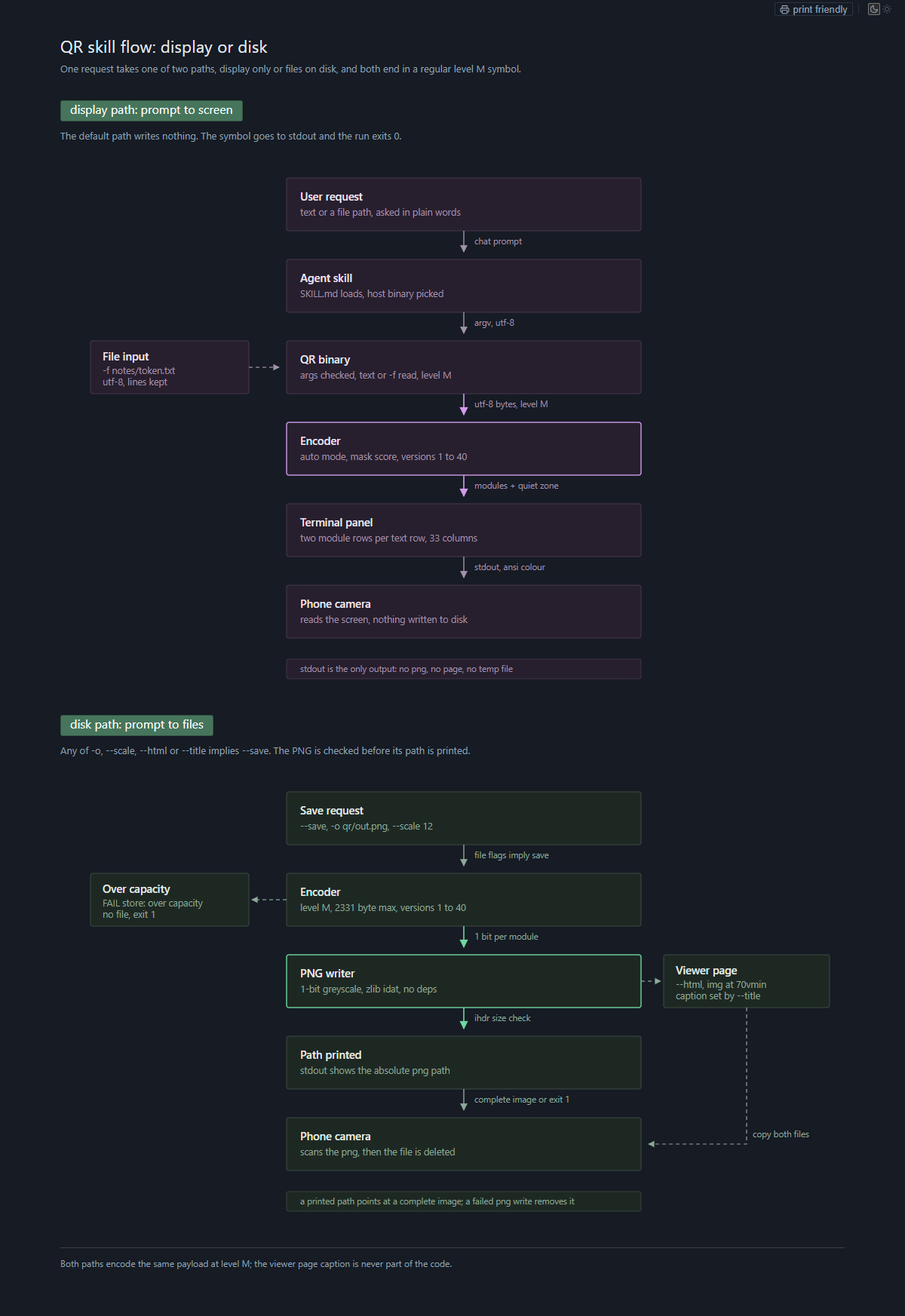
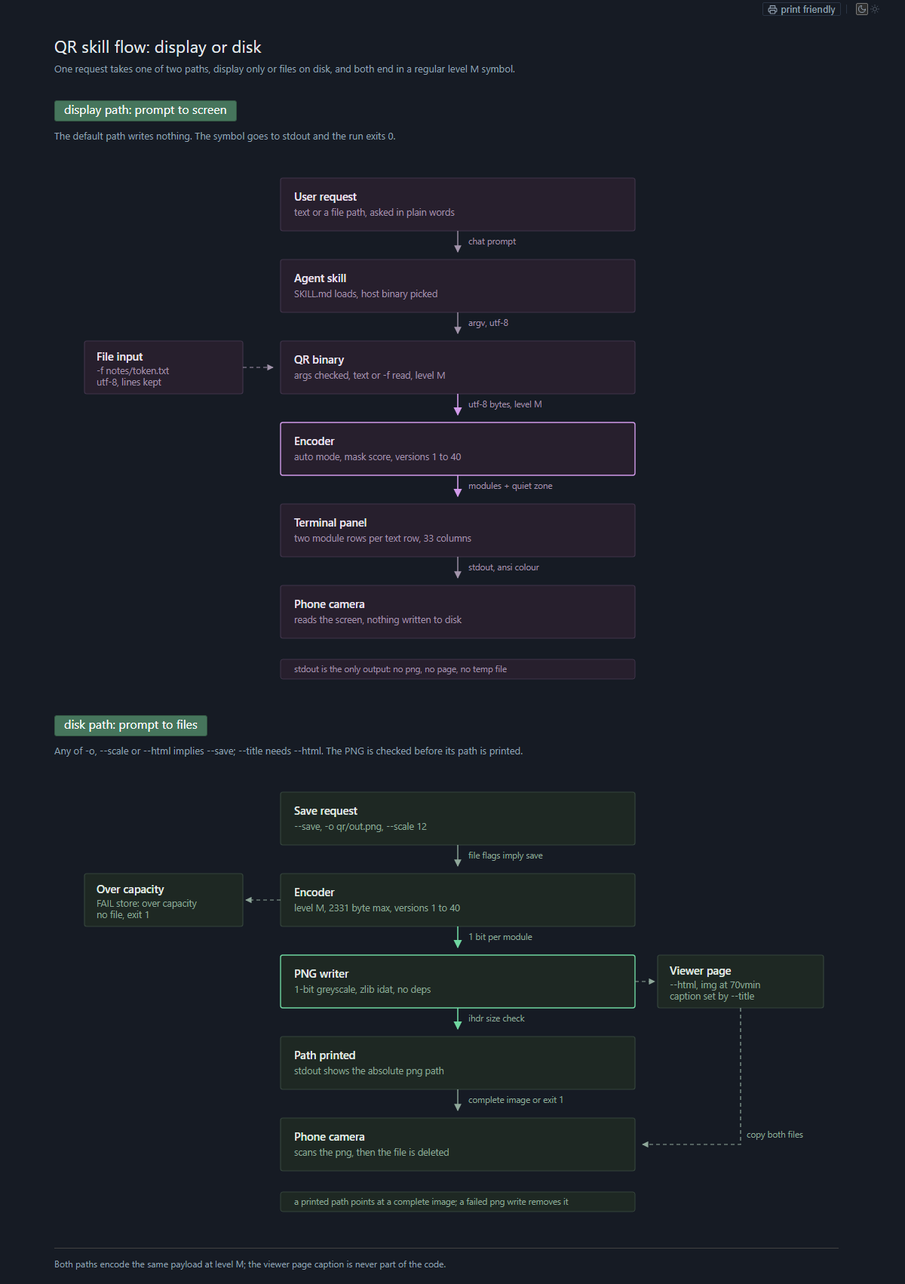
1.2.0 docs: record the audit closure

diff --git a/docs/app-flow.html b/docs/app-flow.html
@@ -246,7 +246,7 @@
     <div class="head">
       <h2>disk path: prompt to files</h2>
     </div>
-    <p class="note">Any of -o, --scale, --html or --title implies --save. The PNG is checked before its path is printed.</p>
+    <p class="note">Any of -o, --scale or --html implies --save; --title needs --html. The PNG is checked before its path is printed.</p>
     <svg viewBox="0 0 1040 592" role="img" aria-label="Disk path: save request, encoder, png writer focus, path printed and phone camera, with an over-capacity exit and a viewer page side channel">
       <defs>
         <marker id="dskHead" viewBox="0 0 10 10" refX="9" refY="5" markerWidth="7" markerHeight="7" orient="auto">

diff --git a/spec/qr-spec.md b/spec/qr-spec.md
@@ -4,8 +4,8 @@
 |---|---|
 | Title | qr: offline QR code generator skill |
 | Purpose | Pin observable behaviour of the skill, first for the Python line, then as the acceptance target for the Rust line that replaces it |
-| Status | approved |
-| Version | 1.1.1 |
+| Status | implemented |
+| Version | 1.2.0 |
 | Owner | skill maintainer |
 | Stakeholders | agent operators who load the skill, reviewers of the port |
 | Approvers | owner, reviewer |
@@ -33,7 +33,7 @@ QR-22 applies to the 0.8.0 binary; the 0.7.1 Python line had no `--version` flag
 | Id | Required behaviour | Failure behaviour |
 |---|---|---|
 | QR-01 | A single positional argument is encoded unchanged: no strip, no case change, no re-encoding. | none |
-| QR-02 | `-f PATH` reads the file as UTF-8, without line-ending translation, and strips leading and trailing whitespace before encoding. The whitespace set is CPython's, measured on 3.14.6: U+0009 to U+000D, U+001C to U+0020, U+0085, U+00A0, U+1680, U+2000 to U+200A, U+2028, U+2029, U+202F, U+205F, U+3000, 29 code points in 10 ranges. Rust `str::trim` follows Unicode White_Space and keeps U+001C to U+001F, so the port carries this table. | QR-19 |
+| QR-02 | `-f PATH` reads the file as UTF-8, without line-ending translation, and strips leading and trailing whitespace before encoding. The whitespace set is CPython's, measured on 3.14.6: U+0009 to U+000D, U+001C to U+0020, U+0085, U+00A0, U+1680, U+2000 to U+200A, U+2028, U+2029, U+202F, U+205F, U+3000, 29 code points in 10 ranges. Rust `str::trim` follows Unicode White_Space and keeps U+001C to U+001F, so the port carries this table. A file above 1 MiB is refused before it is read whole. | QR-19 |
 | QR-03 | Text and `-f` are mutually exclusive. | exit 2, stderr `give text or --file, not both`, nothing written |
 | QR-04 | Neither text nor `-f` is given. | exit 2, stderr `provide text or --file`, nothing written |
 | QR-05 | The payload is empty, either as an empty argument or a file that strips to nothing. | exit 2, stderr `empty input`, nothing written |
@@ -46,16 +46,16 @@ QR-22 applies to the 0.8.0 binary; the 0.7.1 Python line had no `--version` flag
 | QR-12 | The PNG is square, side `(modules + 2 * border) * scale` pixels, and decodes back to the payload. | QR-11, QR-13 |
 | QR-13 | After writing, the PNG header dimensions are compared with the expected symbol size, and the file must end with an IEND chunk. | on a size mismatch the file is removed, exit 1, stderr `FAIL png size <got> expected <want>`; without IEND the file is removed, exit 1, stderr `FAIL png tail: missing IEND` |
 | QR-14 | In save mode, stdout carries only the absolute PNG path, then, with `--html`, the absolute page path on a second line. | no other stdout output in save mode |
-| QR-15 | `--html` writes a page named after the PNG stem, next to the PNG, referencing the image by file name; it contains no payload text, no script and no external asset; the image is scaled to 70vmin, the shorter side of the viewport. It selects save mode, per QR-24. | QR-19 |
-| QR-16 | `--title` sets the page title and caption only, HTML-escaped, and is never encoded. It selects save mode, per QR-24. | none; any string is accepted |
+| QR-15 | `--html` writes a page named after the PNG stem, next to the PNG, referencing the image by its percent-encoded file name; it contains no payload text, no script and no external asset; the image is scaled to 70vmin, the shorter side of the viewport. A page path equal to the PNG path is a usage error. It selects save mode, per QR-24. | exit 2, stderr `page path equals the PNG path`, nothing written |
+| QR-16 | `--title` sets the page title and caption only, HTML-escaped, and is never encoded. It requires `--html`. | exit 2, stderr `--title requires --html` |
 | QR-17 | Exit 0 on success, 1 on a runtime failure, 2 on a usage error. | n/a |
 | QR-18 | An existing output file is replaced. | QR-19 |
-| QR-19 | Any filesystem failure, including an unreadable, missing or non-UTF-8 `-f` file, ends with a one-line error on stderr and exit 1, with no traceback and no partial file left behind. | n/a |
+| QR-19 | Any filesystem failure, including an unreadable, missing or non-UTF-8 `-f` file, and an input file above 1 MiB, ends with a one-line error on stderr and exit 1, with no traceback and no partial file left behind. | n/a |
 | QR-20 | `-h` and `--help` print usage on stdout and exit 0; the text lists every option, `--version` included, in the option list and the usage line. An unknown option is a usage error. | exit 2 for unknown options |
 | QR-21 | Standard input is never read. | n/a |
 | QR-22 | `--version` prints the single version string and exits 0, on every build. | exit 0 always |
 | QR-23 | With no output option the symbol is printed to stdout as UTF-8 text, quiet zone included, black modules on a painted light background, two module rows per text row. It writes no file, creates no directory and prints no path. | a failed stdout write is one `FAIL write: stdout` line and exit 1 |
-| QR-24 | `--save` selects save mode and writes the PNG at `-o`, default `qr.png`. `-o`, `--scale`, `--html` and `--title` also select save mode; `-f` and `--border` do not. | QR-19 |
+| QR-24 | `--save` selects save mode and writes the PNG at `-o`, default `qr.png`. `-o`, `--scale` and `--html` also select save mode; `-f` and `--border` do not. | QR-19 |
 
 ## 3. Non-functional requirements
 
@@ -70,7 +70,7 @@ QR-22 applies to the 0.8.0 binary; the 0.7.1 Python line had no `--version` flag
 | NFR-07 | The same payload and options produce byte-identical PNG output on the same platform. |
 | NFR-08 | The payload never reaches stdout, stderr, a log or a file name, and no telemetry is collected. |
 | NFR-09 | Both Linux binaries are statically linked and carry no dynamic loader dependency; they start on Alpine x86_64 and arm64 with no package installed. |
-| NFR-10 | The Windows and macOS binaries start with no runtime redistributable. Size under 4 MB per binary. Measured on the 1.1.1 artifacts: 250368 bytes for `qr.exe`, 235008 for `qr-arm64.exe`, 657120 for `qr`, 716056 for `qr-arm64`, 536000 for `qr-macos-arm64`. |
+| NFR-10 | The Windows binaries link the C runtime statically, and the import table names no VCRUNTIME140, MSVCP140 or api-ms-win-crt-* entry, so neither Windows nor macOS needs a runtime redistributable. Size under 4 MB per binary. Measured on the 1.2.0 artifacts: 361472 bytes for `qr.exe`, 346112 for `qr-arm64.exe`, 665352 for `qr`, 716608 for `qr-arm64`, 555008 for `qr-macos-arm64`. |
 | NFR-11 | The build uses one source tree and one version for all five binaries, with no per-platform source differences. |
 | NFR-12 | A run with no output option performs no filesystem write. After a terminal run the working directory is unchanged, with no PNG, page, temp file, cache or log. |
 
@@ -81,7 +81,8 @@ Components and responsibilities:
 - Generator: argument parsing, validation, symbol encoding, the post-write header check and the viewer page. Owns argument semantics, output naming, stdout and stderr text, exit codes.
 - Symbol encoder: module layout, mask selection, PNG raster. Owns module content and pixel output.
 - `tools/gate.py`: black-box harness that runs the shipped artefact, decodes its output and asserts the contract. Stays in Python, is not shipped.
-- `tools/argv_matrix.py`: runs the command-line cases in `spec/argv-matrix.json` against the shipped artefact or a target binary. The fixture is frozen from the binary; the harness normalises the program name and scratch paths, collapses whitespace in stderr, and compares help stdout with whitespace collapsed because the usage line wraps on the program name.
+- `tools/argv_matrix.py`: runs the command-line cases in `spec/argv-matrix.json` against the shipped artefact or a target binary. The fixture is frozen from the binary; the harness normalises the program name and scratch paths, collapses whitespace in stderr, and compares help stdout with whitespace collapsed because the usage line wraps on the program name. `--check-manifest` ties the fixture stamp to `rust-src/Cargo.toml`.
+- `.github/pe_subsystem.py`: reads the PE header of a Windows binary and fails unless the subsystem is 3 and the import table names no redistributable runtime.
 - `tools/diff_python.py`: differential sweep over the corpus and a page set, comparing a binary with the Python line. Run on Windows and Linux before deletion, kept for a re-run against a script taken from git history.
 - `SKILL.md`: the text an agent reads; owns discovery, usage guidance, the platform-to-binary rule and the secrets rule.
 - Viewer page: static HTML next to the PNG, no script, one image reference.
@@ -102,19 +103,19 @@ Command line:
 | Flag | Type | Range or default | Notes |
 |---|---|---|---|
 | text | string | one argument | positional, optional |
-| `-f`, `--file` | path | any readable file | UTF-8, stripped |
+| `-f`, `--file` | path | any readable file up to 1 MiB | UTF-8, stripped |
 | `-o`, `--out` | path | default `qr.png` | relative to the current directory |
 | `--scale` | int | 1-100, default 10 | pixels per module |
 | `--border` | int | 0-16, default 4 | module units |
 | `--html` | flag | off | writes the page |
-| `--title` | string | default `qr code` | page only, never encoded; implies save |
+| `--title` | string | default `qr code` | page only, never encoded; requires `--html` |
 | `--save` | flag | off | writes the PNG instead of printing to the terminal |
 | `--version` | flag | off | prints the version, added by the port |
 | `-h`, `--help` | flag | off | prints usage on stdout and exits 0 |
 
 Streams: by default stdout carries the painted symbol and no path. In save mode stdout carries the absolute paths, one per line, and nothing else on success. stderr carries one line for a runtime failure, prefixed `FAIL`. Usage errors use the argparse-compatible text on stderr.
 
-Files: in save mode the PNG is the only required output and the page is optional; a default run writes no file. The output is always written as PNG, whatever the extension. The page path is the PNG path with the extension replaced by `.html`, so `qr.png` gives `qr.html` and a name without an extension gains `.html`.
+Files: in save mode the PNG is the only required output and the page is optional; a default run writes no file. The output is always written as PNG, whatever the extension. The page path is the PNG path with the extension replaced by `.html`, so `qr.png` gives `qr.html` and a name without an extension gains `.html`. When the two names land on the same file, as for `-o out.html --html`, the run is a usage error: exit 2, no file written. The comparison is case-folded on Windows and macOS and exact on Linux.
 
 ### 5.1 Distribution
 
@@ -137,8 +138,9 @@ Breaking-change rule: flag names, defaults, ranges, message text, path derivatio
 | Success, page | valid payload, `--html` | PNG path then page path, exit 0 |
 | Success, terminal | valid payload, no output option | painted symbol on stdout, exit 0, no file written |
 | Version | `--version` | one version line on stdout, exit 0 |
-| Usage error | conflicting or missing source, out-of-range number, unknown option | argparse-compatible text on stderr, exit 2, nothing written |
+| Usage error | conflicting or missing source, out-of-range number, unknown option, page path equal to the PNG path, `--title` without `--html` | argparse-compatible text on stderr, exit 2, nothing written |
 | Capacity failure | payload over level M capacity | one `FAIL store:` line on stderr, exit 1, nothing written |
+| Input too large | an `-f` file above 1 MiB | one `FAIL read:` line on stderr, exit 1, nothing written |
 | Size mismatch | header dimensions differ from the symbol size, or the file has no IEND chunk | one `FAIL png size` or `FAIL png tail` line on stderr, file removed, exit 1 |
 | Filesystem failure | unwritable output path, unreadable or non-UTF-8 input | one `FAIL read` or `FAIL write` line on stderr, exit 1, no traceback |
 | Page failure | the PNG is written and the page path is blocked | one `FAIL write` line on stderr, exit 1, PNG kept, stdout empty |
@@ -153,7 +155,7 @@ Recovery is always a corrected re-run; the tool holds no state that a failed run
 - Network reach: none, by NFR-01.
 - Credentials: none used or stored.
 - Secret lifecycle: a QR of a token is a photographable secret. The tool stores nothing, prints nothing of the payload, and the operator deletes the artefact after scanning, per the SKILL.md rule. The default terminal mode leaves no artefact to delete and is the preferred mode for a one-off code.
-- Enforcement points: escaping for QR-16, base-name-only reference for QR-15, and the gate checks `viewer hides text` and `viewer references png` on the shipped binary.
+- Enforcement points: escaping for QR-16, the percent-encoded base name for QR-15, the page-versus-PNG comparison before any write, and the gate checks `viewer hides text`, `viewer references png` and `page equal to the png is refused` on the shipped binary.
 - Supply chain: the binary is built from this repo and committed here, so the installed artefact is the reviewed artefact. Crates are pinned in `Cargo.lock`.
 
 ## 8. Implementation constraints
@@ -173,7 +175,7 @@ Recovery is always a corrected re-run; the tool holds no state that a failed run
 | Requirement | Method | Evidence today |
 |---|---|---|
 | QR-01, QR-12 | gate decode | `decode matches`, `short payload regular 21 modules` |
-| QR-02 | gate decode | `file exit 0`, `strips file whitespace`, `crlf payload preserved`, `strip set boundary` |
+| QR-02 | gate decode | `file exit 0`, `strips file whitespace`, `crlf payload preserved`, `strip set boundary`, `rejects an input file above 1 MiB` |
 | QR-03 | gate exit code | `rejects text plus file`, `rejects empty text with file` |
 | QR-04 | gate exit code | `rejects no source` |
 | QR-05 | gate exit code | `rejects empty text` |
@@ -184,17 +186,17 @@ Recovery is always a corrected re-run; the tool holds no state that a failed run
 | QR-11 | gate exit code and file absence | `rejects oversize` |
 | QR-13 | unit tests on the probe and the verdict, gate unit on a truncated file | `verify_rejects_a_size_mismatch`, `verify_names_the_size_and_the_tail`; the gate covers truncation with `png tail detects truncation` |
 | QR-14 | gate stdout | `two paths png then html` |
-| QR-15 | gate page inspection | `viewer references png`, `viewer hides text`, `viewport tag present` |
-| QR-16 | gate page inspection | `title escaped in page`, `title never encoded` |
-| QR-17 | exit code asserted in every check | all 45 |
+| QR-15 | gate page inspection and exit code | `viewer references png`, `viewer hides text`, `viewport tag present`, `page encodes a # in the image name`, `page equal to the png is refused` |
+| QR-16 | gate page inspection and exit code | `title escaped in page`, `title never encoded`, `title without html is refused` |
+| QR-17 | exit code asserted in every check | all 49 |
 | QR-18 | gate decode after a rewrite | `overwrite replaces the file` |
 | QR-19 | gate exit code and one-line stderr | `missing file is one FAIL read line`, `non utf8 file is one FAIL read line`, `blocks output parent with FAIL write`, `blocks page with FAIL write` |
 | QR-20 | gate exit code and matrix help cases | `help exits 0`; the matrix compares the help text after whitespace collapse |
 | QR-21 | gate decode with stdin attached | `stdin is ignored` |
-| QR-22 | gate exit code and stdout | `version prints one line` |
+| QR-22 | gate exit code and stdout; matrix version case; version tie job | `version prints one line`; the matrix case `version`; `version tie manifest=1.2.0 fixture=1.2.0` |
 | QR-23, QR-24, NFR-12 | gate terminal rebuild, directory listing and save default | `term exits 0 with no stderr`, `term writes nothing to disk`, `term decodes to the payload`, `term keeps a square white quiet zone`, `term border 0 gives a bare 21-module grid`, `term oversize writes nothing`, `save writes qr.png and prints the path`, `save writes a decodable PNG` |
 | NFR-01, NFR-02, NFR-07 | static inspection and repeat-run hash | no network code in the tree; one static binary with no runtime dependency; two runs of the same payload give the same PNG digest |
-| NFR-04, NFR-05, NFR-10 | measurement on the reference machine | 10.3 ms maximum, 0.97 MiB peak commit, 249856, 235008, 656984, 715912 and 535888 bytes |
+| NFR-04, NFR-05, NFR-10 | measurement on the reference machine | 10.3 ms maximum, 0.97 MiB peak commit, 361472, 346112, 665352, 716608 and 555008 bytes |
 | D-01 to D-03, NFR-09 | install into a scratch folder, `readelf` shows no `NEEDED`, run on Alpine | scratch copy of `SKILL.md` and `bin` runs and prints both paths; the readelf and `alpine:3.21` jobs are green for both Linux builds, and the five binaries pass the gate on their own runners, macOS included (run 43805428587) |
 | D-04, D-05 | release notes carry sizes and digests; the five binaries report the same `--version` | 1.1.0: all five print 1.1.0; v1.1.0 is tagged on 3cdd391 and published with five archives, 130178, 126596, 299016, 297308 and 229378 bytes, each digest in the notes; the assets were re-downloaded and hash-compared, and the extracted Windows binary passed the gate 45 of 45 and the matrix 30 of 30 |
 | D-04, D-05 | same check on the 1.1.1 artifacts | 1.1.1: all five print 1.1.1; v1.1.1 is tagged on 80d861f and published with five archives, 130310, 126673, 299152, 297409 and 229541 bytes, each digest in the notes; the assets were re-downloaded and hash-compared, and the extracted Windows binary passed the gate 45 of 45 and the matrix 30 of 30 |
@@ -216,6 +218,7 @@ Acceptance criteria for the port, and the evidence: the gate passes with the Rus
 | Build, 1.0.0 | ARM64 on both systems: aarch64 Linux musl and Windows ARM64, built on the arm64 runners; four binaries at 1.0.0 |
 | Build, 1.1.0 | macOS ARM64: aarch64-apple-darwin built on macos-latest, no Intel macOS binary |
 | Build, 1.1.1 | failure paths: over-capacity writes nothing before output directories, failed page write removes the partial page; 45 checks and 30 matrix cases |
+| Build, 1.2.0 | audit closure: static CRT on both Windows targets with an import check, page path equal to the PNG refused, checked stdout, 1 MiB input bound, version tie, percent-encoded page name, 49 checks and 33 matrix cases |
 | Release, 0.8.0 | shipped 2026-11-15: v0.8.0 tagged on b976acf, two archives published, assets re-verified at the release page |
 | Release, 0.10.0 | shipped 2026-11-16: v0.10.0 tagged on fecf43d, two archives published, assets re-verified at the release page |
 | Release, 0.10.1 | shipped 2026-11-16: v0.10.1 tagged on 7517fd1, two archives published, assets re-verified at the release page |
@@ -232,7 +235,7 @@ Port increments, each closing at Gate 2:
 5. P5: terminal display. Gate met by the 47 checks, which rebuild the printed blocks into a bitmap, decode the payload and require an empty working directory after the run. 0.9.0 shipped this behind `--term`.
 6. P6: terminal display by default. Gate met by 45 checks and 30 matrix cases: a run with no output option leaves the working directory empty, and `--save` writes a decodable PNG.
 
-Gate 1 is closed; OQ-1 to OQ-5 are closed.
+Gate 1 is closed; OQ-1 to OQ-5 are closed. Gate 4 closed 2026-11-16: the spec matches the 1.2.0 binaries, the audit findings are closed, and the status moves to implemented.
 
 ## 11. Open questions
 
@@ -281,3 +284,12 @@ Gate 1 is closed; OQ-1 to OQ-5 are closed.
 | 2026-11-16 | 1.0.0 adds ARM64 (`aarch64-unknown-linux-musl` and Windows ARM64) and marks the stable install model | the arm64 runners are GA in public repositories, the gate dependencies publish arm64 wheels, and the code has no architecture-specific part |
 | 2026-11-16 | 1.1.0 adds macOS ARM64 and leaves Intel macOS to a source build | macos-latest is an arm64 runner, the gate dependencies publish macOS arm64 wheels, and the code has no target-specific part |
 | 2026-11-16 | The skill payload moves to `agent-skill/`, holding `SKILL.md` and `bin/`; the crate, tools, spec and docs stay at the root | the root stays readable, and the install unit is one visible folder |
+| 2026-11-16 | 1.2.0 links the MSVC runtime statically and CI reads the import table | a folder copy cannot install a redistributable, and the missing-DLL failure happens before any argument is parsed |
+| 2026-11-16 | A page path equal to the PNG path is a usage error, not a renamed page | a silent overwrite of the image with exit 0 is worse than a refusal, and the rule needs no naming exception |
+| 2026-11-16 | `--title` requires `--html` and no longer selects save mode by itself | without a page the flag forced a write and had no visible effect |
+| 2026-11-16 | `-f` is bounded at 1 MiB | the payload maximum is 5596 bytes, and the bound stops special files without rejecting a whitespace-padded file |
+| 2026-11-16 | Output paths come from `std::path::absolute`; Unix keeps `..` in the printed path | a Windows drive-relative name needs the per-drive rule, and a second lexical resolver would duplicate it |
+| 2026-11-16 | The page percent-encodes the image name for its `src` attribute | HTML escaping is not URL escaping, and legal names with `#`, `?` or `%` failed to load |
+| 2026-11-16 | The fixture stamp, the manifest and `--version` are compared in CI | a stale binary and a forgotten bump both passed every check before |
+| 2026-11-16 | Deferred: QR-08 lossy Unix paths, QR-10 in-place writes, QR-11 the scale-100 size | each needs a design change beyond an audit fix: OsString plumbing, new cleanup rules, or a size policy |
+| 2026-11-16 | Status moves to implemented at the 1.2.0 tag | the audit findings are closed and Gate 4 records the shipped state |

diff --git a/README.md b/README.md
@@ -31,8 +31,8 @@ Both samples come from `agent-skill/bin/qr.exe --save "https://example.com" -o d
 | `agent-skill/bin/qr-arm64` | Linux ARM64 binary, statically linked |
 | `agent-skill/bin/qr-macos-arm64` | macOS ARM64 binary |
 | `rust-src/` | The crate: command line, encoder, PNG writer, terminal renderer, viewer template |
-| `tools/gate.py` | 45-check acceptance gate over the shipped binary |
-| `tools/argv_matrix.py` | 30-case command-line harness against the frozen fixture |
+| `tools/gate.py` | 49-check acceptance gate over the shipped binary |
+| `tools/argv_matrix.py` | 33-case command-line harness against the frozen fixture |
 | `tools/parity.py` | Symbol parity against segno over `spec/corpus.txt` |
 | `spec/` | Behaviour contract, frozen command-line fixture, parity corpus |
 | `docs/` | Process manuals and the sample images |
@@ -68,7 +68,7 @@ mkdir -p ~/.config/opencode/skills/qr
 cp -r agent-skill/SKILL.md agent-skill/bin ~/.config/opencode/skills/qr
 ```
 
-`~` is your home directory; if the shell does not expand it, use the full path. The [v1.1.1 release](https://github.com/chezhenkie/qr-code-skill/releases/tag/v1.1.1) carries the same files as one archive per platform. Restart the agent if the skill does not appear.
+`~` is your home directory; if the shell does not expand it, use the full path. The [v1.2.0 release](https://github.com/chezhenkie/qr-code-skill/releases/tag/v1.2.0) carries the same files as one archive per platform. Restart the agent if the skill does not appear.
 
 ## Use
 
@@ -115,7 +115,7 @@ The output is UTF-8 text with a colour prefix and needs a monospaced terminal. K
 
 ## Save a PNG
 
-`--save` writes the PNG, and so does any option that only makes sense for a file: `-o`, `--scale`, `--html`, `--title`. The PNG goes to `qr.png` in the current directory unless `-o` names another path.
+`--save` writes the PNG, and so does any option that only makes sense for a file: `-o`, `--scale`, `--html`. The PNG goes to `qr.png` in the current directory unless `-o` names another path.
 
 ```powershell
 .\agent-skill\bin\qr.exe --save "https://example.com" -o .\qr\out.png
@@ -133,12 +133,12 @@ The output is UTF-8 text with a colour prefix and needs a monospaced terminal. K
 | `--scale SCALE` | Pixels per module, 1 to 100; implies `--save` | 10 |
 | `--border BORDER` | Quiet zone in modules, 0 to 16; both modes | 4 |
 | `--html` | Write a viewer page beside the PNG; implies `--save` | off |
-| `--title TITLE` | Caption on the viewer page; implies `--save` | `qr code` |
+| `--title TITLE` | Caption on the viewer page; requires `--html` | `qr code` |
 | `-h, --help` | Print the usage text | |
 | `--version` | Print the version | |
 
-File input is stripped of surrounding whitespace before encoding; text is encoded as given.
-In save mode the PNG is written by the tool itself as a 1-bit greyscale image, then the header is checked against the symbol size and the closing chunk is required; a mismatch removes the file and exits 1, so a printed path points at a complete image of the intended module count. The page loads that image by file name, scales it to 70vmin of the shorter viewport side, and carries a viewport tag so the size holds on a phone.
+File input is stripped of surrounding whitespace before encoding; text is encoded as given, and a file above 1 MiB is refused.
+In save mode the PNG is written by the tool itself as a 1-bit greyscale image, then the header is checked against the symbol size and the closing chunk is required; a mismatch removes the file and exits 1, so a printed path points at a complete image of the intended module count. The page path is compared with the PNG path before anything is written, so the two can never be one file. The page percent-encodes the image name, scales the image to 70vmin of the shorter viewport side, and carries a viewport tag so the size holds on a phone.
 
 ## Cleanup
 
@@ -163,14 +163,15 @@ python tools/gate.py
 python tools/argv_matrix.py
 ```
 
-The gate runs 45 checks over the shipped binary: decode at level M, dimensions at two scales, the page contents, the strip boundaries, error paths, a truncated PNG, and the terminal rendering, which is rebuilt from the printed blocks into a bitmap, decoded, and checked for an empty working directory. The matrix compares 30 command-line cases with the frozen fixture.
+The gate runs 49 checks over the shipped binary: decode at level M, dimensions at two scales, the page contents, the strip boundaries, error paths, a truncated PNG, and the terminal rendering, which is rebuilt from the printed blocks into a bitmap, decoded, and checked for an empty working directory. The matrix compares 33 command-line cases with the frozen fixture.
 Both need Python 3; the gate also needs Pillow and zxing-cpp and exits 2 when they are missing. Both tools write their fixtures under `tools/.artifacts` and delete them on exit.
 
-CI runs the gate and the matrix on Windows and Linux for x86_64 and ARM64, and on macOS ARM64, builds the crate for all five targets, checks that both Linux binaries have no dynamic dependency, and runs them on `alpine:3.21`. No local Rust toolchain is needed.
+CI runs the gate and the matrix on Windows and Linux for x86_64 and ARM64, and on macOS ARM64, checks the version tie, formatting and lints, builds the crate for all five targets, checks that both Linux binaries have no dynamic dependency, and runs them on `alpine:3.21`. No local Rust toolchain is needed.
 
 ## Limits
 
 - Level M only. Byte mode holds 2331 bytes of text, digits and uppercase fit more; longer input fails with one line.
+- A UTF-8 input file holds at most 1 MiB; a larger file fails with one `FAIL read:` line.
 - `--border` accepts 0 to 16 in both modes; `--scale` accepts 1 to 100 in save mode. A quiet zone of 4 or more modules scans best.
 - The terminal rendering draws one column per module plus the quiet zone; a window narrower than that wraps the symbol and breaks the scan.
 - Long text makes a dense symbol, so raise `--scale` for screen scanning. 2331 bytes at scale 100 is 18500 pixels per side.

diff --git a/agent-skill/SKILL.md b/agent-skill/SKILL.md
@@ -33,15 +33,15 @@ On Linux the binary is `~/.config/opencode/skills/qr/bin/qr`, or `bin/qr-arm64` 
 
 - With no output option the symbol goes to stdout and nothing is written.
 - `--save` writes the PNG, at `-o` when given, default `qr.png`; the absolute path is printed on stdout.
-- `-o/--out`, `--scale`, `--html` and `--title` imply `--save`.
-- `-f/--file` reads the file as UTF-8 and keeps line endings as stored, then strips surrounding whitespace; give either text or a file, not both.
+- `-o/--out`, `--scale` and `--html` imply `--save`.
+- `-f/--file` reads the file as UTF-8 and keeps line endings as stored, then strips surrounding whitespace; give either text or a file, not both. Files above 1 MiB are refused.
 - `--scale` is pixels per module, 1 to 100, default 10; it applies to the PNG only.
 - `--border` is the quiet zone in modules, 0 to 16, default 4; it applies to both modes.
-- `--html` writes a viewer page next to the PNG, named after it with the extension replaced by `.html`, and prints its absolute path on stdout after the PNG path.
-- `--title` sets the viewer caption only; it is never encoded.
+- `--html` writes a viewer page next to the PNG, named after it with the extension replaced by `.html`, and prints its absolute path on stdout after the PNG path. If that name is the PNG itself, the run is refused before anything is written.
+- `--title` sets the viewer caption and requires `--html`; it is never encoded.
 - `--version` prints the version and exits 0.
 
-Error correction is fixed at level M, and every symbol is a regular QR code, never Micro QR. The viewer page loads the image by file name, scales it to 70vmin (the shorter side of the viewport), and never contains the encoded text.
+Error correction is fixed at level M, and every symbol is a regular QR code, never Micro QR. The viewer page percent-encodes the image file name for its src attribute, so names with `#`, `?` or `%` load, and scales the image to 70vmin (the shorter side of the viewport). It never contains the encoded text.
 
 ## Show on screen
 
@@ -58,7 +58,7 @@ It needs a monospaced terminal, a window wide enough that no line wraps, and eno
 
 ## Save a PNG
 
-`--save` writes the image, and so does any option that only makes sense for a file: `-o`, `--scale`, `--html`, `--title`.
+`--save` writes the image, and so does any option that only makes sense for a file: `-o`, `--scale`, `--html`.
 
 ```powershell
 & "$env:USERPROFILE\.config\opencode\skills\qr\bin\qr.exe" --save "https://example.com" -o .\qr\out.png
@@ -68,9 +68,9 @@ Write the PNG into the project being worked on, for example `qr\` in the project
 
 ## Contract
 
-In save mode the binary checks the written PNG header against the symbol size and requires the closing IEND chunk before it prints anything, so a printed path always points at a complete image of the intended module count. Arguments are validated before any file is written, and a filesystem failure ends with one `FAIL read:` or `FAIL write:` line on stderr and exit 1, never a traceback.
+In save mode the binary checks the written PNG header against the symbol size and requires the closing IEND chunk before it prints anything, so a printed path always points at a complete image of the intended module count. Arguments are validated before any file is written, the page path is compared with the PNG path so the two can never be one file, and a filesystem failure ends with one `FAIL read:` or `FAIL write:` line on stderr and exit 1, never a traceback.
 
-Text over the capacity at level M fails with one `FAIL store:` line and leaves no file; byte mode tops out at 2331 bytes, digits and uppercase text fit more. The terminal display reports a failed stdout write as one `FAIL write: stdout` line.
+Text over the capacity at level M fails with one `FAIL store:` line and leaves no file; byte mode tops out at 2331 bytes, digits and uppercase text fit more. An input file above 1 MiB fails with one `FAIL read:` line. The terminal display reports a failed stdout write as one `FAIL write: stdout` line.
 
 ## Exit and cleanup
 

diff --git a/CHANGELOG.md b/CHANGELOG.md
@@ -1,5 +1,27 @@
 # Changelog
 
+## 1.2.0
+
+### Fixes
+
+#### All platforms
+
+* A page path that lands on the PNG itself is a usage error, so `-o out.html --html` leaves the image instead of replacing it.
+* A closed stdout in save mode prints one `FAIL write: stdout` line and exits 1, not a panic.
+* The viewer page percent-encodes the image name, so names with `#`, `?` or `%` load.
+* An input file above 1 MiB fails with one `FAIL read:` line.
+* Output paths are resolved by the operating system; a Windows drive-relative name prints an absolute path.
+* The page name and the PNG name are compared by the platform's case rule.
+
+#### Windows
+
+* Both binaries carry the C runtime statically and import no redistributable DLL.
+
+### Changes
+
+* `--title` requires `--html`; it no longer selects save mode by itself.
+* The gate has 49 checks and the CLI matrix 33 cases.
+
 ## 1.1.1
 
 ### Fixes

diff --git a/REQUIREMENTS.md b/REQUIREMENTS.md
@@ -20,6 +20,7 @@ Intel macOS is not shipped; build from `rust-src/`.
 - No interpreter, package manager, runtime library or configuration file.
 - No temporary directory use. A run with no output option writes nothing; save mode writes only the named PNG and the optional page.
 - A writable output path in save mode; missing parent folders are created.
+- File input through `-f` is limited to 1 MiB of UTF-8.
 
 ## Terminal display
 
